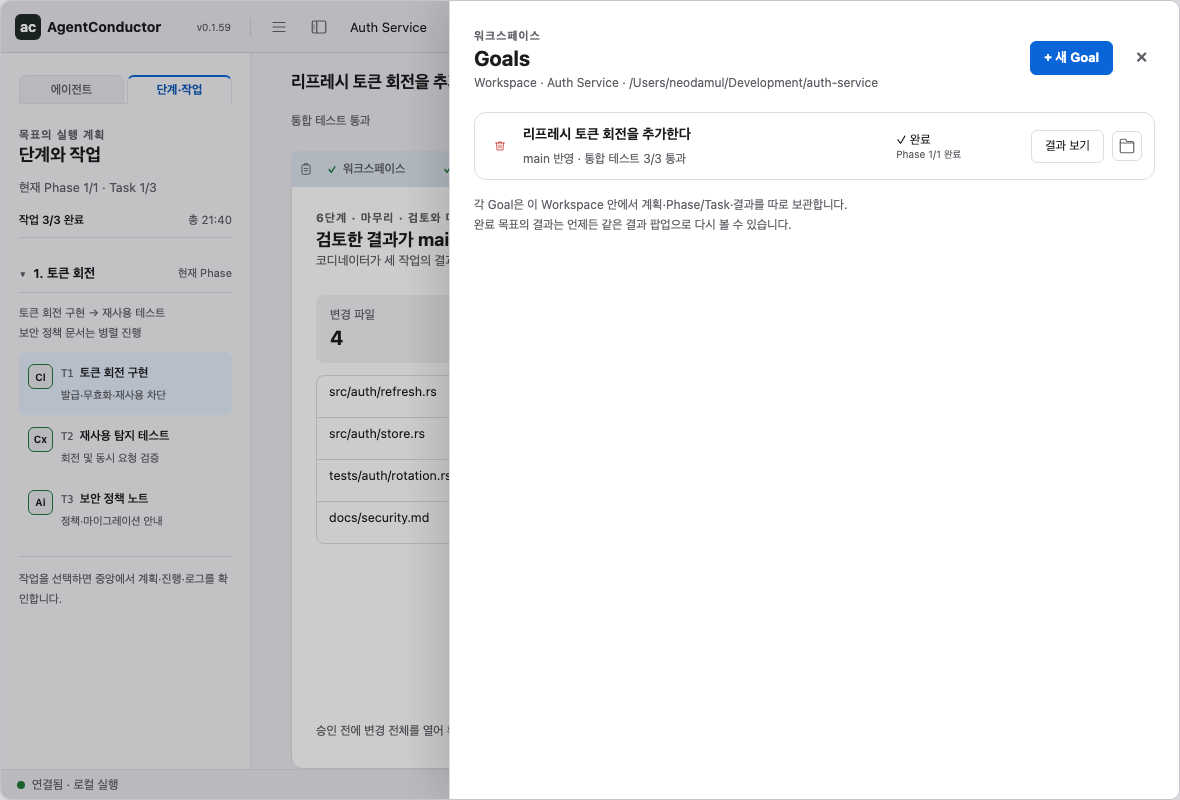
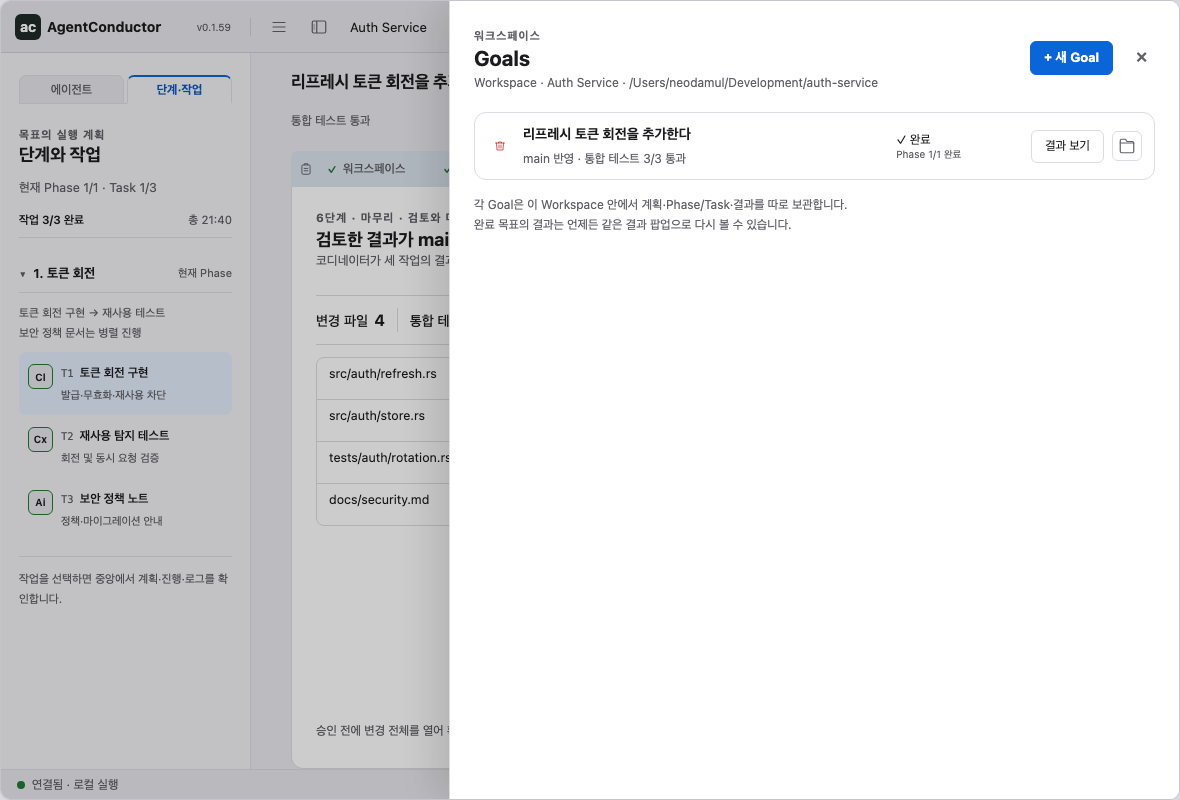
docs: refine inspector title and readable evidence summaries

Changed region(s): [[0.2746, 0.4375, 0.3661, 0.6562], [0.2746, 0.375, 0.3661, 0.4375]]

diff --git a/docs/design/approved-goal-ui/preview.css b/docs/design/approved-goal-ui/preview.css
@@ -209,3 +209,10 @@ button:not(:disabled),a[href],summary,[role="button"]:not([aria-disabled="true"]
 .tools>.tb{display:inline-flex;align-items:center;justify-content:center;min-height:22px;line-height:16px}.tools .agent-remove{font-size:11px;min-width:22px;height:22px;padding:2px 4px}.tools .agent-remove svg{width:13px;height:13px}
 
 .agent-brand-logo{display:block;width:19px;height:19px;flex:none;color:var(--ink)}
+
+.task-inspector>.panel-heading{height:auto;min-height:29px;display:block;padding:0 0 10px;margin-bottom:10px;border-bottom:1px solid var(--line)}.task-inspector>.panel-heading h3{display:block;height:auto;padding:0;margin:0;border:0;border-radius:0;background:transparent;color:var(--ink);font-size:18px;font-weight:650}
+
+/* Review evidence uses compact document metadata, not dashboard number tiles. */
+.stat,.result-stats{display:flex;align-items:center;flex-wrap:wrap;gap:0;margin-top:14px;padding:10px 0;border-top:1px solid var(--line);border-bottom:1px solid var(--line);background:transparent}.stat>.st,.result-stats>div{display:inline-flex;align-items:baseline;gap:6px;padding:0 12px;background:transparent;border:0;border-radius:0}.stat>.st:first-child,.result-stats>div:first-child{padding-left:0}.stat>.st+.st,.result-stats>div+div{border-left:1px solid var(--line)}.stat .st .l{font-size:12px;color:var(--soft);display:inline}.stat .st .v{font-size:13px;font-weight:600;display:inline;margin:0}.result-stats strong{font-size:13px;font-weight:600;display:inline;order:2}.result-stats span{font-size:12px;color:var(--soft);display:inline;order:1}
+
+.stat .st .l,.result-stats span{font-size:14px;font-weight:500;color:var(--ink)}.stat .st .v,.result-stats strong{font-size:16px;font-weight:650;color:var(--ink)}.stat,.result-stats{line-height:1.5;padding-top:12px;padding-bottom:12px}

diff --git a/docs/design/approved-goal-ui/interaction-checks.js b/docs/design/approved-goal-ui/interaction-checks.js
@@ -116,6 +116,8 @@
  check('agent trash uses shared SVG',[...document.querySelectorAll('.agent-remove')].every(button=>button.querySelector('svg path').getAttribute('d')==='M3 6h18M9 6V4h6v2M5 6l1 14h12l1-14M10 10v6M14 10v6'));
  check('agent brands replace card initials',document.querySelectorAll('.agent .status-icon .agent-brand-logo').length===2);
  check('agent trash balances tools',[...document.querySelectorAll('.agent-remove svg')].every(svg=>getComputedStyle(svg).width==='13px'));
+ check('inspector title is not a tab',getComputedStyle(document.querySelector('#task-inspector-title')).borderTopWidth==='0px'&&getComputedStyle(document.querySelector('#task-inspector-title')).backgroundColor==='rgba(0, 0, 0, 0)');
+ check('evidence summary has no KPI tiles',[...document.querySelectorAll('.result-stats>div')].every(item=>getComputedStyle(item).backgroundColor==='rgba(0, 0, 0, 0)'&&getComputedStyle(item.querySelector('strong')).fontSize==='16px'));
  check('no script errors',!document.documentElement.dataset.designError);
  document.documentElement.dataset.interactionResult=JSON.stringify({theme:initialTheme,width:innerWidth,checks});
 })().catch(error=>document.documentElement.dataset.designError=error.message);

diff --git a/docs/design/approved-goal-ui/visual-spec.md b/docs/design/approved-goal-ui/visual-spec.md
@@ -40,7 +40,8 @@ label badges. Light backgrounds: `#dce5ef` / `#dce9df` / `#e9e1d2`; dark backgro
 (1–3, 4–5, and 6) on a single 36px row. Keep the selected tab clear on the card surface.
 Do not restore detached captions, group outlines, or a second group-label row.
 
-The two side panels share background, spacing, separators, heading proportions, and control radii.
+The two side panels share background, spacing, separators, heading proportions, and control radii. The right "Task details" heading is a plain panel
+title, not a tab: no accent edge, selected background, or tab-shaped border.
 The inspector must look like a docked rail, not a floating modal or a different settings application.
 No X/Close is present in the inspector. The titlebar toggle remains reachable while it is open.
 
@@ -56,7 +57,8 @@ Use tabular numerals for percentages, counts, timings, and other aligned metrics
 | Main Goal | 17px, weight 650 |
 | Step title | 18px semibold |
 | Rail title | 18px semibold |
-| Selected rail / inspector heading tab | 12px, weight 650 |
+| Selected left-rail tab | 12px, weight 650 |
+| Right inspector title | Plain 18px heading, weight 650; no selected-tab styling |
 | Section heading | 13–14px, weight 650 |
 | Main body / compact metadata | 12–13px / 11–12px |
 
@@ -152,3 +154,9 @@ See [gallery](gallery.html) for paired screenshots, including quota errors, dial
 
 No external fonts, network image hosts, new styling library, or runtime framework is needed.
 The image set is documentation evidence, not an additional desktop process or app dependency.
+
+## Evidence summaries
+
+Review/result summaries are compact document metadata on one ruled line, not dashboard KPI tiles.
+Use readable 14px labels with 16px semibold values, no separate card fill/radius and no oversized numbers.
+The actual changed-file list, test evidence and lessons remain the main content.
